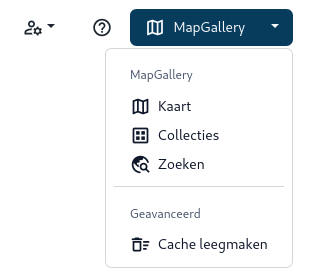
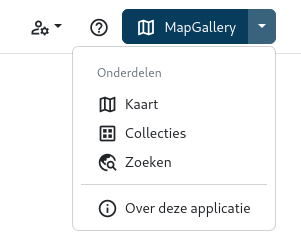
Change to align with version changes

Changed region(s): [[0.0, 0.0281, 1.0, 0.9277], [0.0598, 0.0562, 0.2093, 0.1406], [0.299, 0.0562, 0.3588, 0.1406]]

diff --git a/docs/manual/cache/index.md b/docs/manual/cache/index.md
@@ -21,8 +21,8 @@ Het doel van de cache is om kaarten sneller te laden, door eerder gedownloade be
 ### Cache legen
 Het is mogelijk om de cache te wissen. Dit kan nuttig zijn wanneer je problemen ondervindt met verouderde inhoud, of om ruimte vrij te maken op je apparaat.
 
-1. Klik in het [Hoofdmenu (A)](../map/#a-hoofdmenu) op de dropdown knop naast **MapGallery.**
-   ![](/assets/img/user-main-menu.png)
-1. Klik op de onderste optie **Cache leegmaken.**
+1. Klik in het [Hoofdmenu (A)](../map/#a-hoofdmenu) op de dropdown van de gebruiker.
+   ![](/assets/img/user-user-menu.png)
+1. Klik op de optie **Cache leegmaken.**
 
 Alleen de cache voor MapGallery wordt gewist, gegevens van andere websites en domeinen worden niet gewist.
